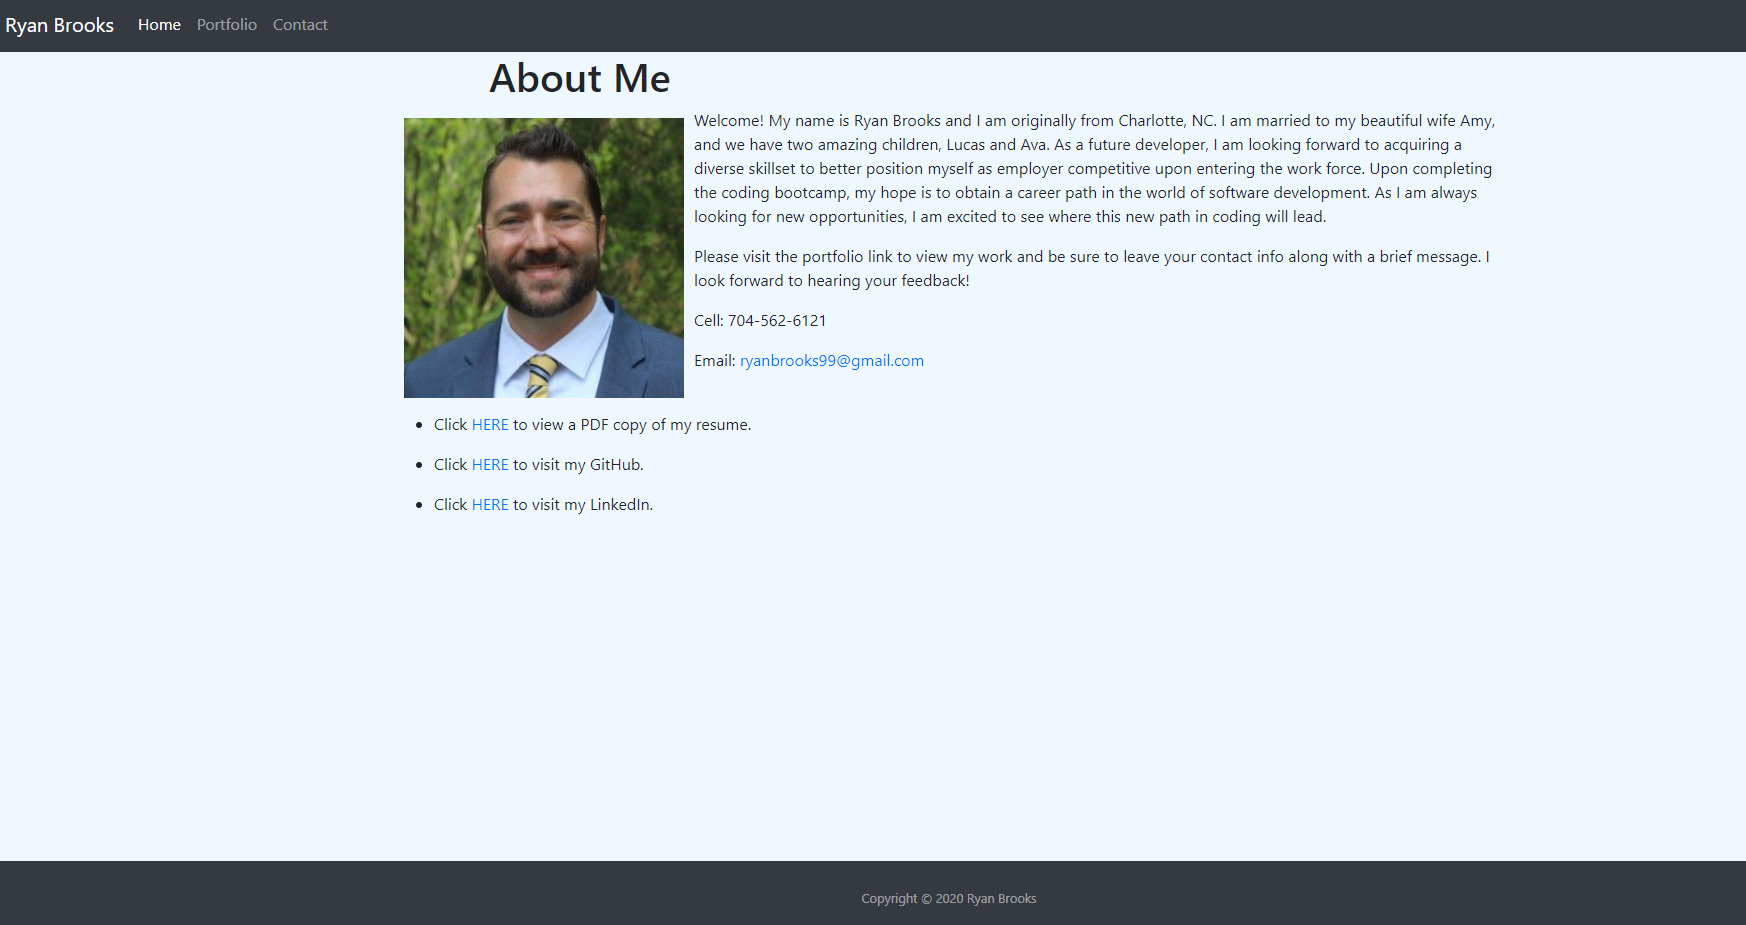
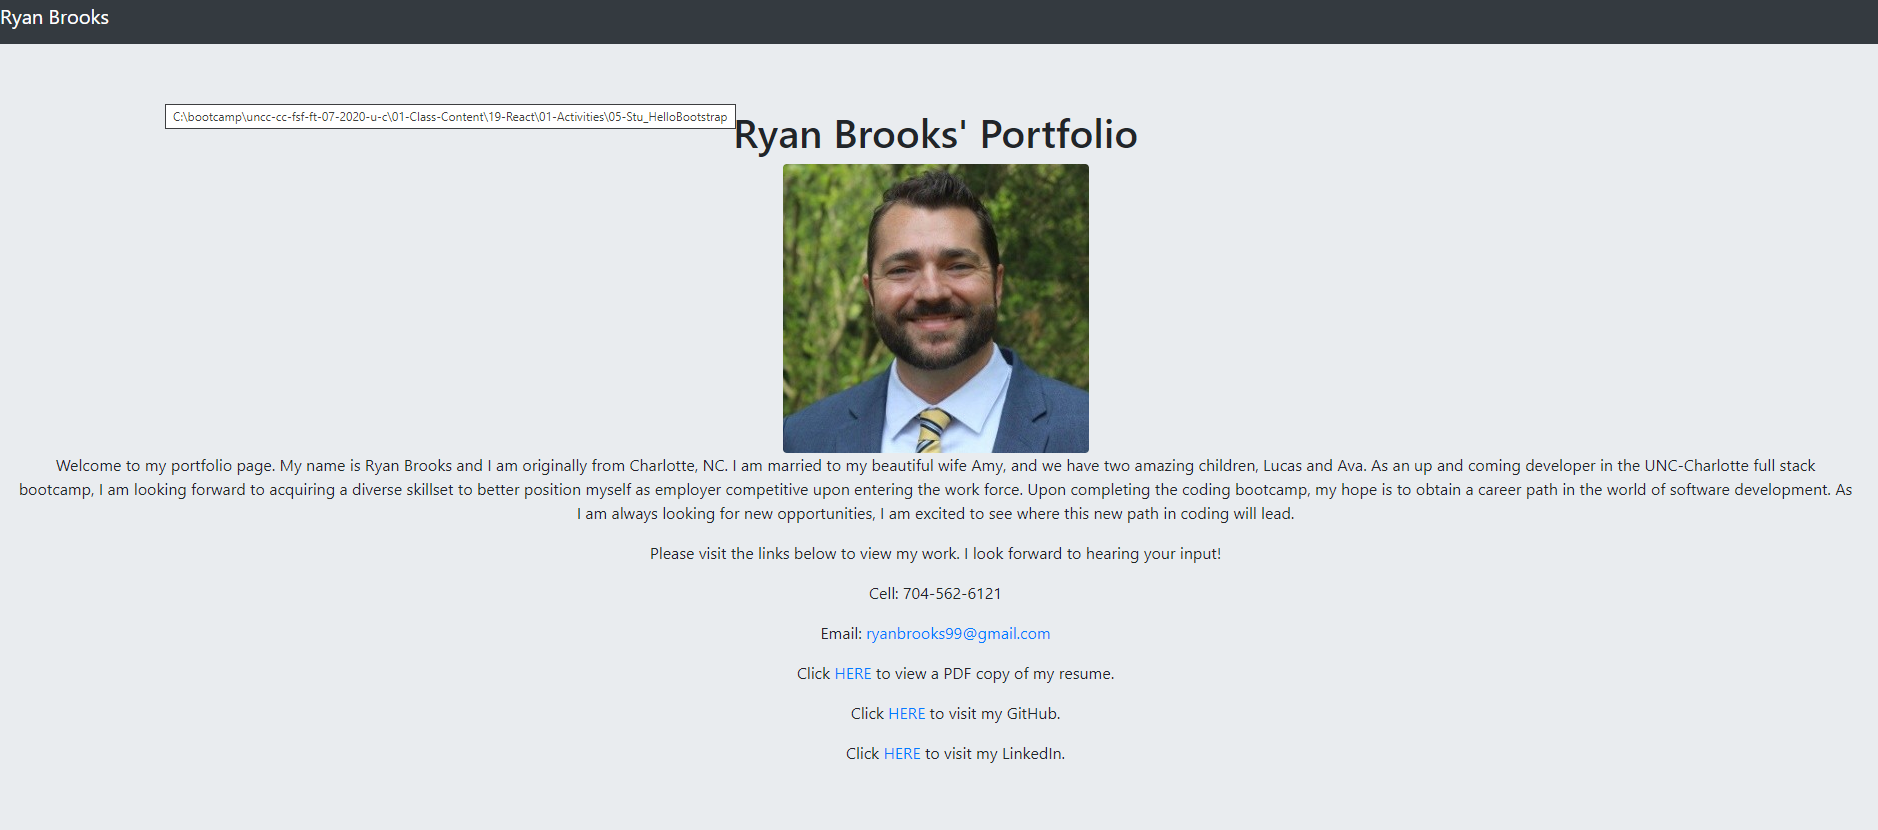
updated readme

diff --git a/portfolio/src/components/Container.js b/portfolio/src/components/Container.js
@@ -6,7 +6,7 @@ import Col from 'react-bootstrap/Col'
 function Container() {
     return (
       <div className="jumbotron">
-        <h1>Ryan Brooks Portfolio</h1>
+        <h1>Ryan Brooks' Portfolio</h1>
         <Image src="../assets/images/ryanheadshot.png" rounded />
         <p>
           Welcome to my portfolio page. My name is Ryan Brooks and I am originally from Charlotte, NC. I am married to my beautiful wife Amy, and we have two amazing children, Lucas and Ava.

diff --git a/README.md b/README.md
@@ -1,1 +1,7 @@
-# reactportfolio
+# React Portfolio
+
+## Welcome to my portfolio which highlights accomplishments to date. I hope you enjoy and please leave a message so I know you stopped by.
+
+[Link to Portfolio](https://ryanbrooks99.github.io/reactportfolio)
+
+![Screenshot of Portfolio](portfolio/src/assets/images/portfolio.png)
